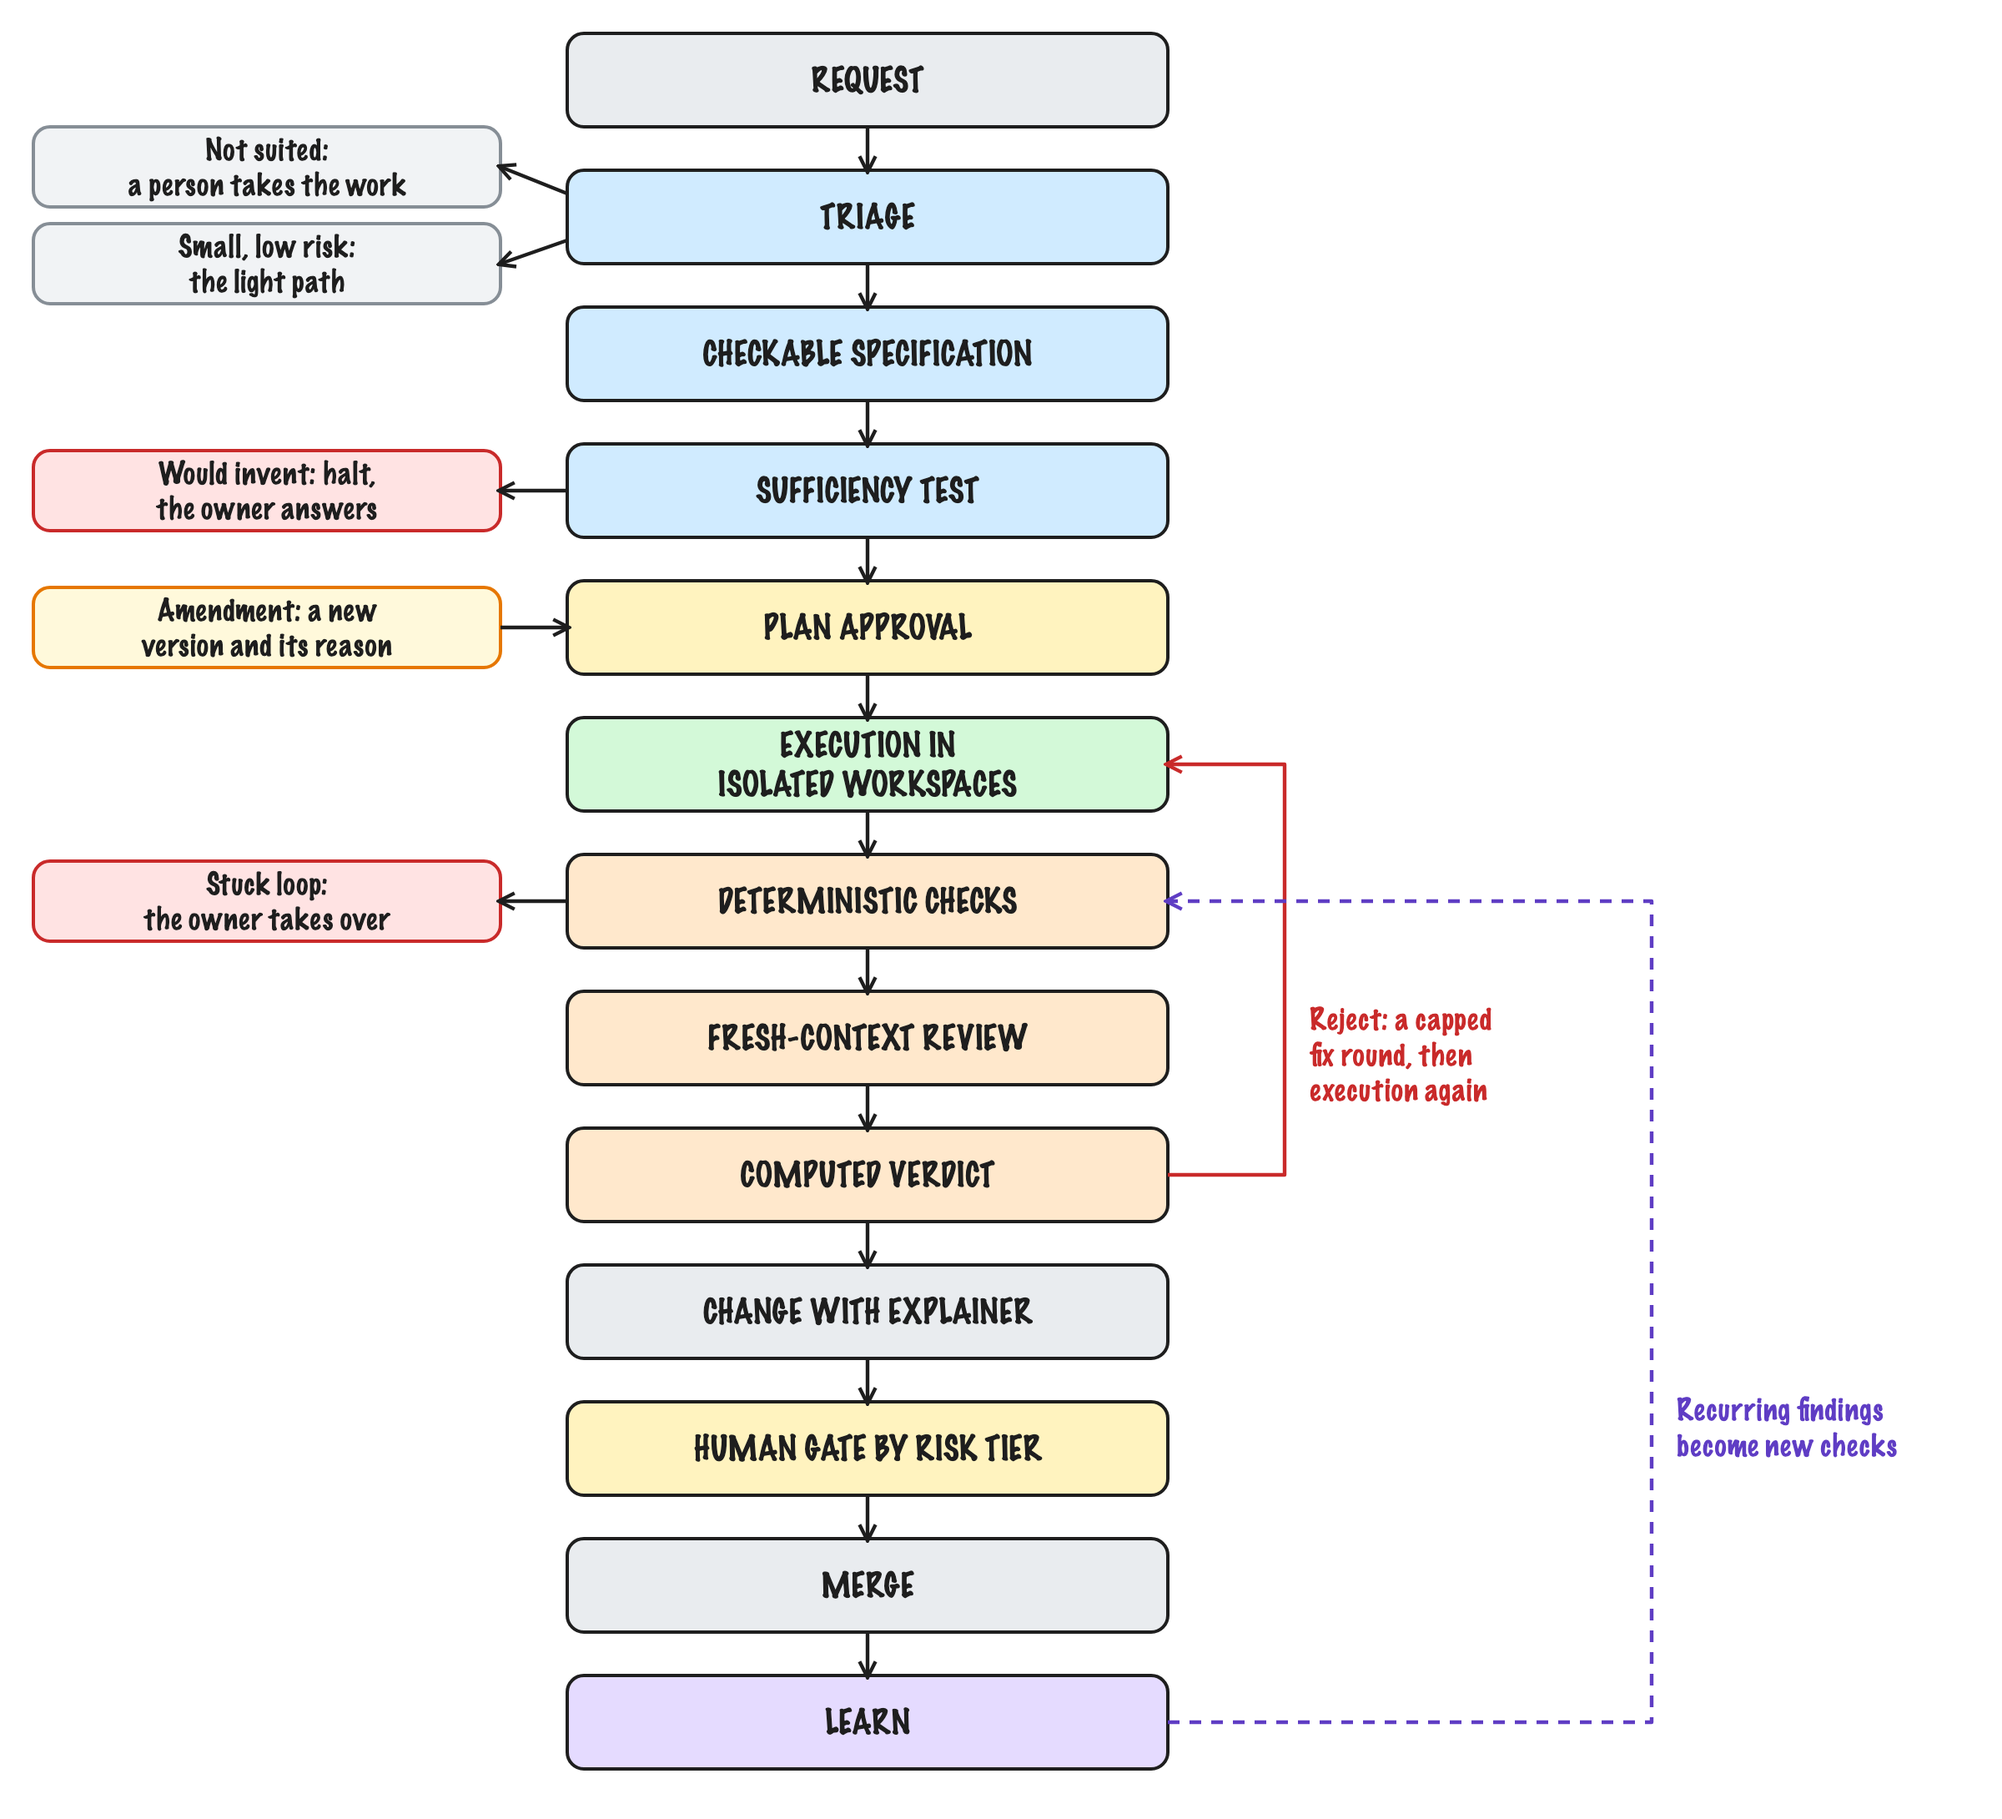
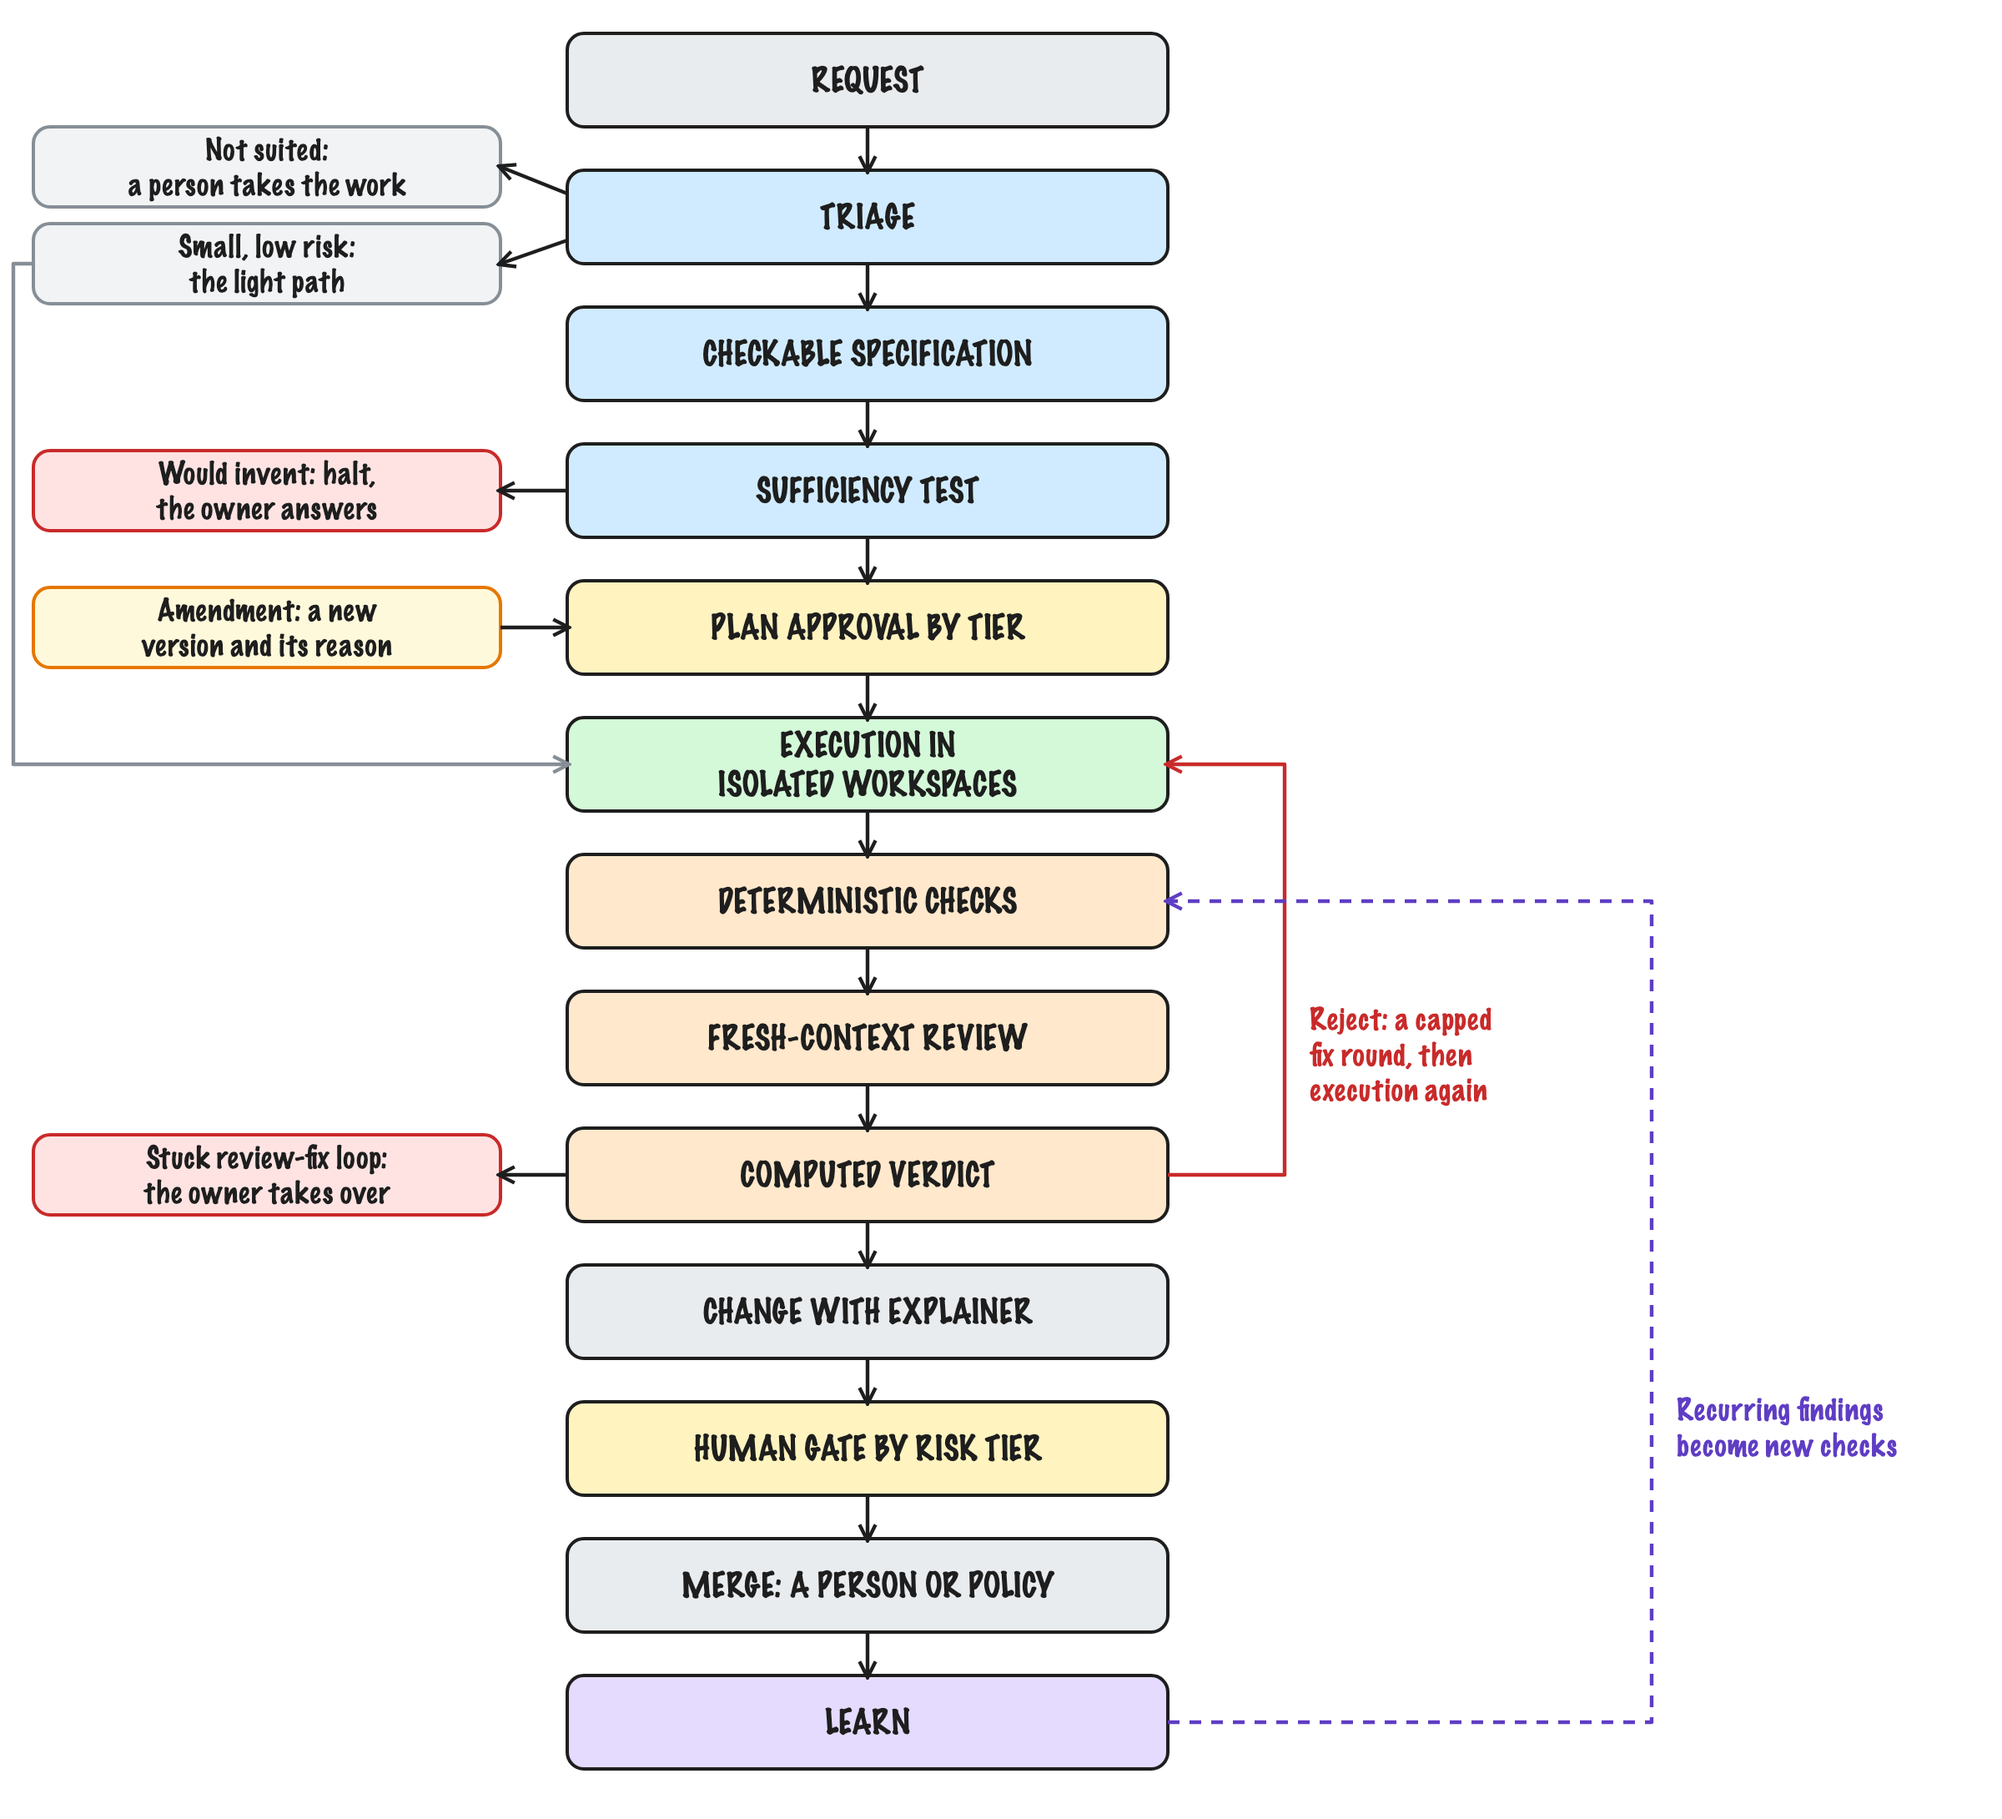
Regenerate figures from updated diagram sources to match revised text

diff --git a/_posts/2026-11-22-building-ai-workflow-systems-that-deserve-trust.md b/_posts/2026-11-22-building-ai-workflow-systems-that-deserve-trust.md
@@ -71,7 +71,7 @@ This section shows the parts that make the axioms hold. A request, whether an is
 
 **Figure 3.1. The anatomy of a workflow system**
 
-![Figure 3.1. The anatomy of a workflow system: a request passes through seven stages under a control plane, with the state spine, feedback spine and supervisor beneath]({{ "/assets/img/figure-3-1-anatomy-of-a-workflow-system.png" | relative_url }})
+![Figure 3.1. The anatomy of a workflow system: a request passes through seven stages under a control plane, with saved state, a feedback layer and a supervisor beneath]({{ "/assets/img/figure-3-1-anatomy-of-a-workflow-system.png" | relative_url }})
 
 Triage decides whether a task suits an agent and how much process it deserves. Specification turns intent into a spec, a written statement of what to build and what done means. Planning checks that the spec suffices and puts the plan to its owner, the person accountable for the work. After approval, the plan changes only through recorded new versions.
 
@@ -328,7 +328,7 @@ Sections 4 to 11 each built one component, and Figure 12.1 joins them into the r
 
 **Figure 12.1. The reference process**
 
-![Figure 12.1. The reference process: a request moves from triage through specification, planning, execution, verification and the human gate to merge and learning, with exits for unsuited work, invented requirements and stuck loops, and loops for rejection and learning]({{ "/assets/img/figure-12-1-the-reference-process.png" | relative_url }})
+![Figure 12.1. The reference process: a request moves from triage through specification, planning, execution, verification and the human gate to merge and learning, with exits for unsuited work, invented requirements and stuck review-fix loops, a light path that rejoins at execution, and loops for rejection and learning]({{ "/assets/img/figure-12-1-the-reference-process.png" | relative_url }})
 
 Earlier sections explain each stage. A rejected change returns through a capped fix round to execution. An accepted change meets the human gate for its risk tier, and a person or an explicit policy, never the author, merges it. The dashed line on the right carries learning back to the checks, because recurring findings become new checks.
 
